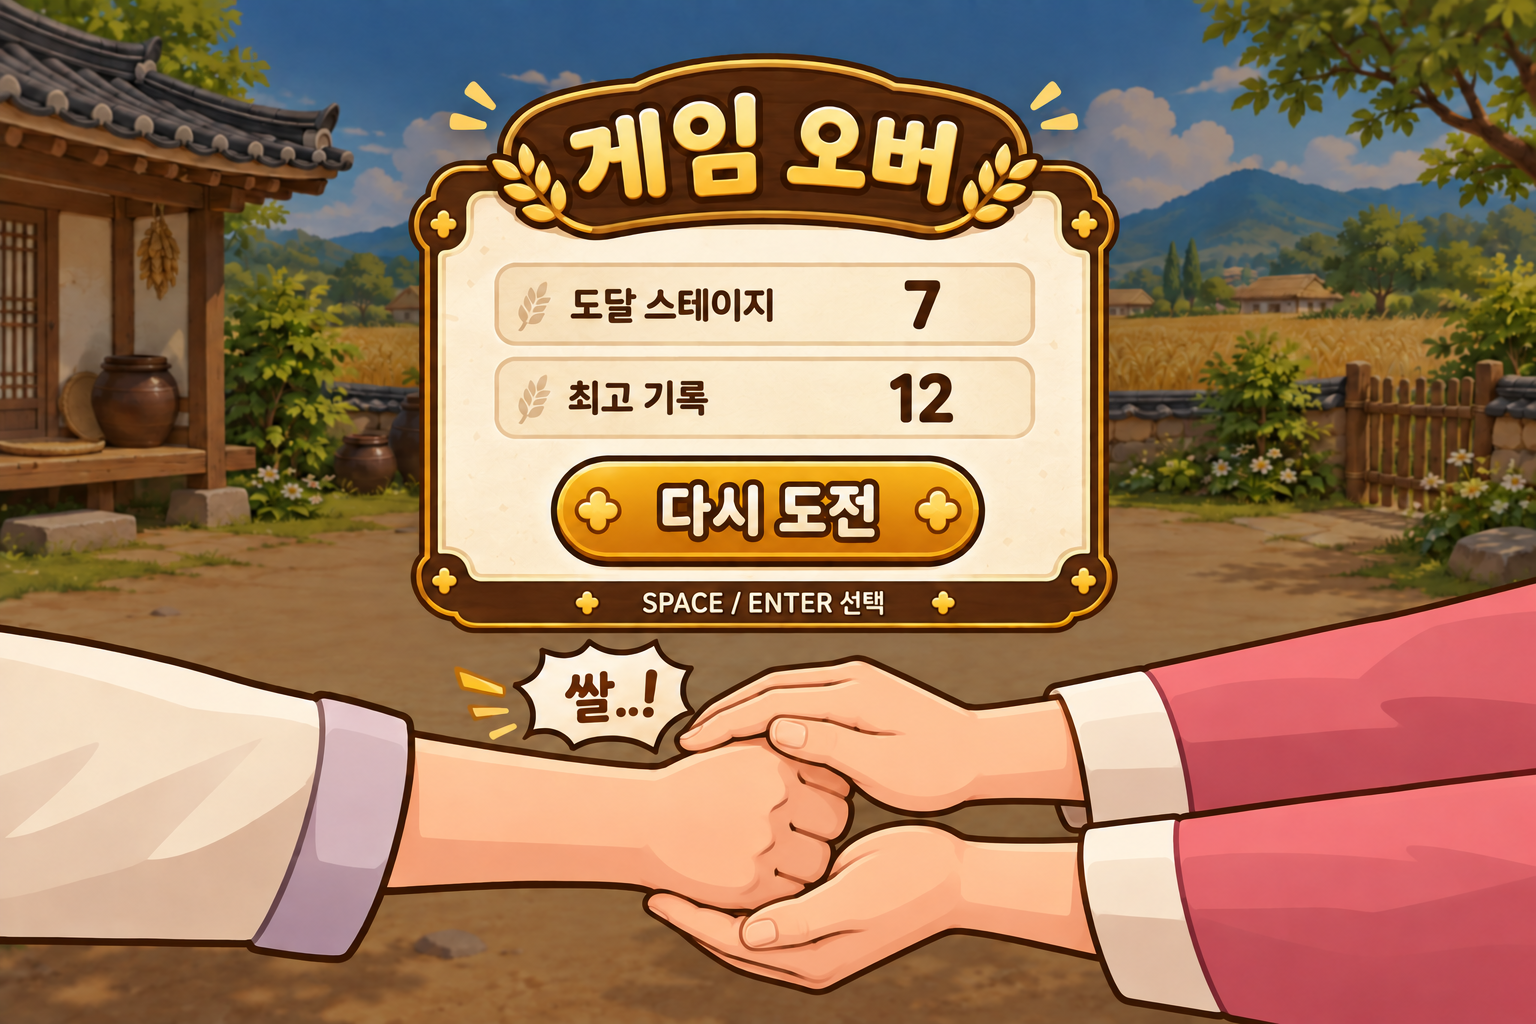
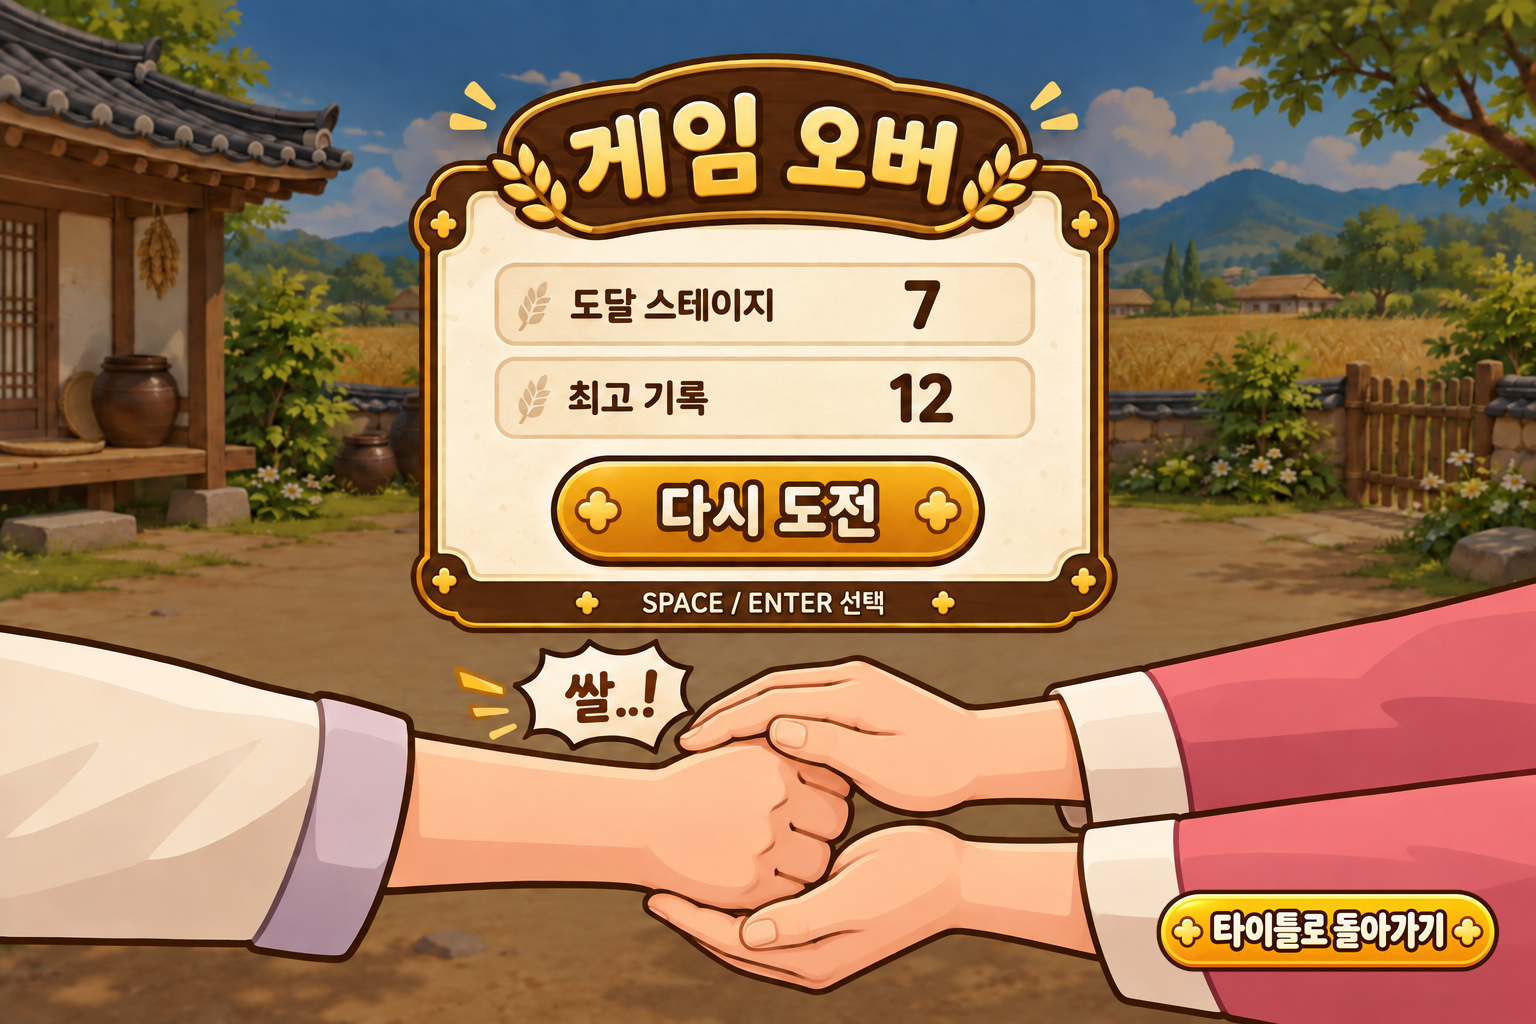
최종 수정 찐

Changed region(s): [[0.75, 0.8438, 1.0, 0.9688]]

diff --git a/BoriBoriSsal/GameMain.cs b/BoriBoriSsal/GameMain.cs
@@ -21,7 +21,9 @@ class GameMain : G2AppBase
 	private const float SuccessDuration = 0.65f;
 	private const float InitialMarkerSpeed = 250.0f;
 	private const float MarkerSpeedIncrease = 55.0f;
-	private const float MaximumMarkerSpeed = 900.0f;
+	private const float SpeedTransitionPoint = 900.0f;
+	private const int SpeedTransitionStage = 13;
+	private const float PostTransitionSpeedIncrease = 20.0f;
 	private const float StartButtonLeft = 330.0f;
 	private const float StartButtonTop = 340.0f;
 	private const float StartButtonWidth = 300.0f;
@@ -64,6 +66,7 @@ class GameMain : G2AppBase
 	private G2Texture? _titleResetButton;
 	private G2Texture? _gameplayScene;
 	private G2Texture? _gameplayChant;
+	private G2Texture? _gameplaySuccessCallout;
 	private G2Texture? _stageBoard;
 	private G2Texture? _timingMarker;
 	private G2Texture? _gameOverScene;
@@ -112,6 +115,7 @@ class GameMain : G2AppBase
 	{
 		_gameplayScene = new G2Texture("resource/gameplay/gameplay_scene.png");
 		_gameplayChant = new G2Texture("resource/gameplay/gameplay_boribori.png");
+		_gameplaySuccessCallout = new G2Texture("resource/gameplay/gameplay_ssal.png");
 		_stageBoard = new G2Texture("resource/gameplay/gameplay_stage.png");
 		_timingMarker = new G2Texture("resource/gameplay/gameplay_timing-_marker.png");
 	}
@@ -193,12 +197,11 @@ class GameMain : G2AppBase
 				}
 				break;
 			case GameState.GameOver:
-				if (Input.IsKeyDown(Keys.Space) ||
-					Input.IsKeyDown(Keys.Enter) ||
+				if (IsRetryKeyPressed() ||
 					IsLeftButtonClickedInside(
 						RetryButtonLeft, RetryButtonTop, RetryButtonWidth, RetryButtonHeight))
 				{
-					if (Input.IsKeyDown(Keys.Space) || Input.IsKeyDown(Keys.Enter))
+					if (IsRetryKeyPressed())
 					{
 						StartGame();
 					}
@@ -215,6 +218,20 @@ class GameMain : G2AppBase
 				}
 				break;
 		}
+	}
+
+	private bool IsRetryKeyPressed()
+	{
+		if (Input.IsKeyDown(Keys.Space))
+		{
+			return true;
+		}
+
+		G2InputContext.InputState altState = Input.KeyState(Keys.Menu);
+		bool isAltPressed = altState is
+			G2InputContext.InputState.Down or
+			G2InputContext.InputState.Press;
+		return Input.IsKeyDown(Keys.Enter) && !isAltPressed;
 	}
 
 	private void BeginButtonAnimation(ButtonAction button)
@@ -315,18 +332,17 @@ class GameMain : G2AppBase
 	{
 		float minimumLeft = BarLeft + ClearZoneEdgeMargin;
 		float maximumLeft = BarLeft + BarWidth - ClearWidth - ClearZoneEdgeMargin;
-		float previousLeft = _clearZoneLeft;
+		float minimumDistance = ClearWidth * 0.5f;
+		float leftRangeEnd = Math.Clamp(_clearZoneLeft - minimumDistance, minimumLeft, maximumLeft);
+		float rightRangeStart = Math.Clamp(_clearZoneLeft + minimumDistance, minimumLeft, maximumLeft);
+		float leftRangeWidth = leftRangeEnd - minimumLeft;
+		float rightRangeWidth = maximumLeft - rightRangeStart;
 
-		for (int attempt = 0; attempt < 8; attempt++)
-		{
-			float candidate = minimumLeft +
-				Random.Shared.NextSingle() * (maximumLeft - minimumLeft);
-			if (MathF.Abs(candidate - previousLeft) >= ClearWidth * 0.5f || attempt == 7)
-			{
-				_clearZoneLeft = candidate;
-				return;
-			}
-		}
+		// 이전 위치 주변을 제외한 두 구간에서 길이에 비례해 무작위로 선택한다.
+		float offset = Random.Shared.NextSingle() * (leftRangeWidth + rightRangeWidth);
+		_clearZoneLeft = offset < leftRangeWidth
+			? minimumLeft + offset
+			: rightRangeStart + offset - leftRangeWidth;
 	}
 
 	private void UpdateTiming()
@@ -341,19 +357,28 @@ class GameMain : G2AppBase
 
 	private void MoveTimingMarker()
 	{
-		float speed = Math.Min(
-			MaximumMarkerSpeed,
-			InitialMarkerSpeed + (_stage - 1) * MarkerSpeedIncrease);
+		float speed = _stage <= SpeedTransitionStage
+			? Math.Min(
+				SpeedTransitionPoint,
+				InitialMarkerSpeed + (_stage - 1) * MarkerSpeedIncrease)
+			: SpeedTransitionPoint +
+				(_stage - SpeedTransitionStage) * PostTransitionSpeedIncrease;
 
-		_markerPosition += _markerDirection * speed * (float)DeltaTime;
-		if (_markerPosition >= BarLeft + BarWidth)
+		// 왕복 이동을 한 주기로 계산해 여러 번 튕기는 프레임에도 이동 거리를 보존한다.
+		double relativePosition = _markerPosition - BarLeft;
+		double period = BarWidth * 2.0;
+		double phase = _markerDirection > 0.0f
+			? relativePosition
+			: period - relativePosition;
+		phase = (phase + speed * DeltaTime) % period;
+		if (phase >= BarWidth)
 		{
-			_markerPosition = BarLeft + BarWidth;
+			_markerPosition = BarLeft + (float)(period - phase);
 			_markerDirection = -1.0f;
 		}
-		else if (_markerPosition <= BarLeft)
+		else
 		{
-			_markerPosition = BarLeft;
+			_markerPosition = BarLeft + (float)phase;
 			_markerDirection = 1.0f;
 		}
 	}
@@ -512,6 +537,12 @@ class GameMain : G2AppBase
 
 	private void RenderChant()
 	{
+		if (_state == GameState.Success)
+		{
+			RenderSuccessCallout();
+			return;
+		}
+
 		bool showChant = _state is
 			GameState.FirstBori or
 			GameState.BoriPause or
@@ -531,9 +562,20 @@ class GameMain : G2AppBase
 			new Rect(0, 0, 1673, 654));
 	}
 
+	private void RenderSuccessCallout()
+	{
+		float popPhase = Math.Min(1.0f, (float)(_stateTime / 0.22));
+		float scale = 1.0f + 0.12f * MathF.Sin(popPhase * MathF.PI);
+		float width = 285.0f * scale;
+		float height = 124.0f * scale;
+		_gameplaySuccessCallout?.Draw(
+			new Rect(480.0f - width * 0.5f, 164.0f - height * 0.5f, width, height),
+			new Rect(0, 0, 1900, 828));
+	}
+
 	private void RenderTimingMarker()
 	{
-		_timingMarker?.Draw(new Rect(_markerPosition - 9, 506, 18, 84), new Rect(0, 0, 276, 1286));
+		_timingMarker?.Draw(new Rect(_markerPosition - 9, 509, 18, 52), new Rect(0, 0, 276, 1286));
 	}
 
 	private void RenderGameOverScores()
@@ -592,6 +634,7 @@ class GameMain : G2AppBase
 		_gameOverScene?.Dispose();
 		_timingMarker?.Dispose();
 		_stageBoard?.Dispose();
+		_gameplaySuccessCallout?.Dispose();
 		_gameplayChant?.Dispose();
 		_gameplayScene?.Dispose();
 		_titleBestScore?.Dispose();

diff --git a/doc/기획서.md b/doc/기획서.md
@@ -2,64 +2,136 @@
 
 ![보리보리쌀 타이틀 화면](images/boribori-title.png)
 
-*타이틀 화면 예시 — 게임 시작, 종료, 최고 기록을 한눈에 확인할 수 있다.*
+*타이틀 화면 — 게임 시작, 게임 종료, 최고 기록 확인과 기록 초기화를 할 수 있다.*
 
-## 게임 기본 콘셉트
+## 게임 개요
 
 | 항목 | 내용 |
 | --- | --- |
 | 장르 | 순발력 중심의 QTE 캐주얼 게임 |
 | 모티브 | 전통 손놀이 ‘보리보리쌀’ |
-| 핵심 목표 | 움직이는 타이밍 바를 정확한 순간에 멈춰 상대 AI에게 주먹이 잡히지 않고 최대한 많은 스테이지를 돌파한다. |
-| 조작 | 스페이스바 하나 |
-| 진행 방식 | 무한 스테이지 |
+| 목표 | 움직이는 타이밍 표시를 초록색 구간에서 멈춰 최대한 높은 스테이지에 도달한다. |
+| 주요 조작 | 키보드 `Space`와 마우스 클릭 |
+| 진행 방식 | 제한 없이 이어지는 무한 스테이지 |
+| 기록 | 가장 높게 클리어한 스테이지를 저장하고 다음 실행에서도 유지 |
 
-## 한 스테이지의 진행
+## 전체 게임 흐름
 
-1. 게임 화면에 **“보리!”**가 표시된다.
-2. 다시 한번 **“보리!”**가 표시된다.
-3. 화면 아래에 타이밍 바(QTE)가 등장한다.
-4. 플레이어가 스페이스바를 눌러 움직이는 타이밍 표시를 멈춘다.
-5. 멈춘 위치에 따라 성공과 실패가 결정된다.
+1. 타이틀 화면에서 **게임 시작** 버튼을 클릭하거나 `Space`를 누른다.
+2. 게임 화면으로 전환되면서 **“보리! 보리!”** 이미지가 바로 나타난다.
+3. 준비 연출이 끝나면 타이밍 표시가 하단의 타이밍 바를 좌우로 움직인다.
+4. 플레이어가 `Space`를 눌러 현재 위치를 판정한다.
+5. 초록색 구간 안에서 멈추면 성공하고 다음 스테이지로 진행한다.
+6. 초록색 구간 밖에서 멈추면 실패하고 게임오버 화면으로 이동한다.
 
 ![보리보리쌀 플레이 화면](images/boribori-gameplay.png)
 
-*플레이 화면 예시 — 구호와 손동작을 확인하며 하단 타이밍 바를 스페이스바로 멈춘다.*
+*플레이 화면 — 현재 스테이지, “보리! 보리!” 구호, 타이밍 표시와 초록색 성공 구간을 확인할 수 있다.*
+
+## 핵심 게임 규칙
+
+### 타이밍 바
+
+- 노란색 타이밍 표시가 바 안을 좌우로 왕복한다.
+- 플레이어는 `Space`를 눌러 타이밍을 판정한다.
+- 화면에 표시된 초록색 영역이 성공 구간이다.
+- 성공 구간은 스테이지마다 타이밍 바 안의 무작위 위치로 변경된다.
+- 이전 스테이지와 너무 비슷한 위치가 반복되지 않도록 위치를 다시 선택한다.
+- 표시되는 초록색 영역과 실제 성공 판정 범위는 동일하다.
 
 ### 성공
 
-- 타이밍 표시가 초록색 클리어 구간 안에서 멈춘다.
-- 캐릭터가 힘차게 **“쌀!”**이라고 외친다.
-- 플레이어의 주먹이 상대 AI의 손 사이로 빠르게 들어갔다가 빠져나온다.
-- AI가 주먹을 잡는 데 실패한다.
-- **CLEAR!** 문구가 나타난 뒤 다음 스테이지로 넘어간다.
+- 타이밍 표시가 초록색 구간 안에 있으면 성공한다.
+- 화면 중앙에 **“쌀!”** 이미지가 팝 효과와 함께 나타난다.
+- 성공 효과음이 재생된다.
+- 현재 스테이지가 최고 기록보다 높으면 기록을 갱신한다.
+- 성공 연출이 끝나면 스테이지가 1 증가하고 다음 판이 시작된다.
 
 ### 실패
 
-- 타이밍 표시가 클리어 구간을 벗어난다.
-- 캐릭터가 자신 없는 느낌으로 **“쌀..!”**이라고 외친다.
-- 상대 AI의 두 손이 닫히며 플레이어의 주먹을 잡는다.
-- 게임 오버 화면에 도달 스테이지와 최고 기록을 표시한다.
+- 타이밍 표시가 초록색 구간 밖에 있으면 실패한다.
+- 플레이 BGM이 정지하고 게임오버 효과음이 재생된다.
+- 게임오버 화면에 도달 스테이지와 최고 기록이 표시된다.
 
-![보리보리쌀 게임 오버 화면](images/boribori-gameover.png)
+![보리보리쌀 게임오버 화면](images/boribori-gameover.png)
 
-*게임 오버 화면 예시 — 도달 스테이지와 최고 기록을 보여 주고 재도전을 안내한다.*
+*게임오버 화면 — 도달 스테이지와 최고 기록을 확인하고 다시 도전하거나 타이틀로 돌아갈 수 있다.*
 
 ## 난이도 구조
 
-스테이지는 제한 없이 계속 이어진다. 스테이지가 높아질수록 타이밍 표시의 이동 속도가 빨라져 정확한 순간에 스페이스바를 누르기 어려워진다. 속도는 플레이 불가능할 정도로 높아지지 않도록 상한을 둔다.
+스테이지가 올라갈수록 타이밍 표시의 이동 속도가 증가한다. 속도에 최종 제한은 없으며, 게임을 오래 진행할수록 계속 어려워진다.
 
-이 게임의 핵심 재미는 다음 세 가지다.
+| 스테이지 | 속도 변화 |
+| --- | --- |
+| 1스테이지 | 기본 속도 250 |
+| 2~12스테이지 | 스테이지마다 55씩 증가 |
+| 13스테이지 | 속도 900 도달 |
+| 14스테이지 이후 | 스테이지마다 20씩 계속 증가 |
 
-- 점점 빨라지는 속도에서 오는 긴장감
-- 성공 직후 주먹을 재빨리 빼는 시각적 쾌감
-- 최고 스테이지 기록을 갱신하는 도전 욕구
+초반에는 속도가 빠르게 증가해 난도가 확실하게 변한다. 후반에는 증가 폭을 낮춰 게임을 계속 진행할 수 있으면서도 긴장감은 유지되도록 구성했다.
 
-## 화면 구성과 조작
+## 화면별 기능
 
-- 상단: 현재 스테이지와 이번 실행 중의 최고 기록
-- 중앙: AI의 양손, 플레이어의 주먹, “보리/쌀” 구호와 결과 문구
-- 하단: 왕복하는 타이밍 표시와 초록색 클리어 구간
-- `Space`: 시작, 타이밍 정지, 게임 오버 후 재도전
-- `Esc`: 게임 종료
-- `Alt + Enter`: 전체화면 전환
+### 타이틀 화면
+
+- **게임 시작**: 1스테이지부터 게임을 시작한다.
+- **게임 종료**: 게임을 종료한다.
+- **최고 기록**: 저장된 최고 클리어 스테이지를 표시한다.
+- **초기화**: 저장된 최고 스테이지를 0으로 변경한다.
+- 타이틀 전용 BGM이 반복 재생된다.
+
+### 플레이 화면
+
+- 상단에 현재 스테이지를 표시한다.
+- 중앙에 캐릭터의 손과 **“보리! 보리!”**, 성공 시 **“쌀!”** 이미지를 표시한다.
+- 하단에 타이밍 바, 성공 구간과 움직이는 타이밍 표시를 배치한다.
+- 플레이 전용 BGM이 반복 재생된다.
+
+### 게임오버 화면
+
+- 도달 스테이지와 최고 클리어 기록을 표시한다.
+- **다시 도전** 버튼을 누르면 1스테이지부터 다시 시작한다.
+- **타이틀로 돌아가기** 버튼을 누르면 타이틀 화면으로 이동한다.
+
+## 버튼 기능
+
+- 게임 시작, 게임 종료, 초기화, 다시 도전, 타이틀로 돌아가기 버튼을 마우스로 선택할 수 있다.
+- 버튼을 클릭하면 버튼이 커졌다가 원래 크기로 돌아오는 시각 효과가 나타난다.
+- 모든 버튼에서 공통 클릭 효과음이 재생된다.
+- 키보드 조작도 함께 지원한다.
+
+## 사운드 구성
+
+| 상황 | 사운드 |
+| --- | --- |
+| 타이틀 화면 | 타이틀 BGM 반복 재생 |
+| 게임 시작 및 다시 도전 | 플레이 BGM 반복 재생 |
+| 타이밍 성공 | 성공 효과음 재생 |
+| 게임오버 | 플레이 BGM 정지 후 게임오버 효과음 재생 |
+| 타이틀 복귀 | 타이틀 BGM 다시 재생 |
+| 버튼 클릭 | 공통 버튼 클릭 효과음 재생 |
+
+## 조작 방법
+
+| 입력 | 기능 |
+| --- | --- |
+| `Space` | 게임 시작, 타이밍 판정, 게임오버 후 재도전 |
+| `Enter` | 게임오버 화면에서 재도전 |
+| 마우스 왼쪽 클릭 | 화면에 표시된 버튼 선택 |
+| `Esc` | 게임 종료 |
+| `Alt + Enter` | 창 모드와 전체화면 모드 전환 |
+
+## 기록 저장
+
+- 플레이 중 성공해서 클리어한 가장 높은 스테이지를 최고 기록으로 저장한다.
+- 실패한 현재 스테이지는 최고 기록에 포함하지 않는다.
+- 게임을 종료하고 다시 실행해도 최고 기록이 유지된다.
+- 타이틀 화면의 **초기화** 버튼을 누르면 최고 기록이 0으로 변경된다.
+- 기록 저장에 문제가 발생하더라도 게임 플레이는 계속할 수 있다.
+
+## 핵심 재미
+
+- 스테이지마다 달라지는 성공 구간에 적응하는 재미
+- 계속 빨라지는 타이밍 표시에서 오는 긴장감
+- 성공 순간 나타나는 “쌀!” 이미지와 효과음의 피드백
+- 최고 스테이지 기록을 갱신하기 위한 반복 도전
